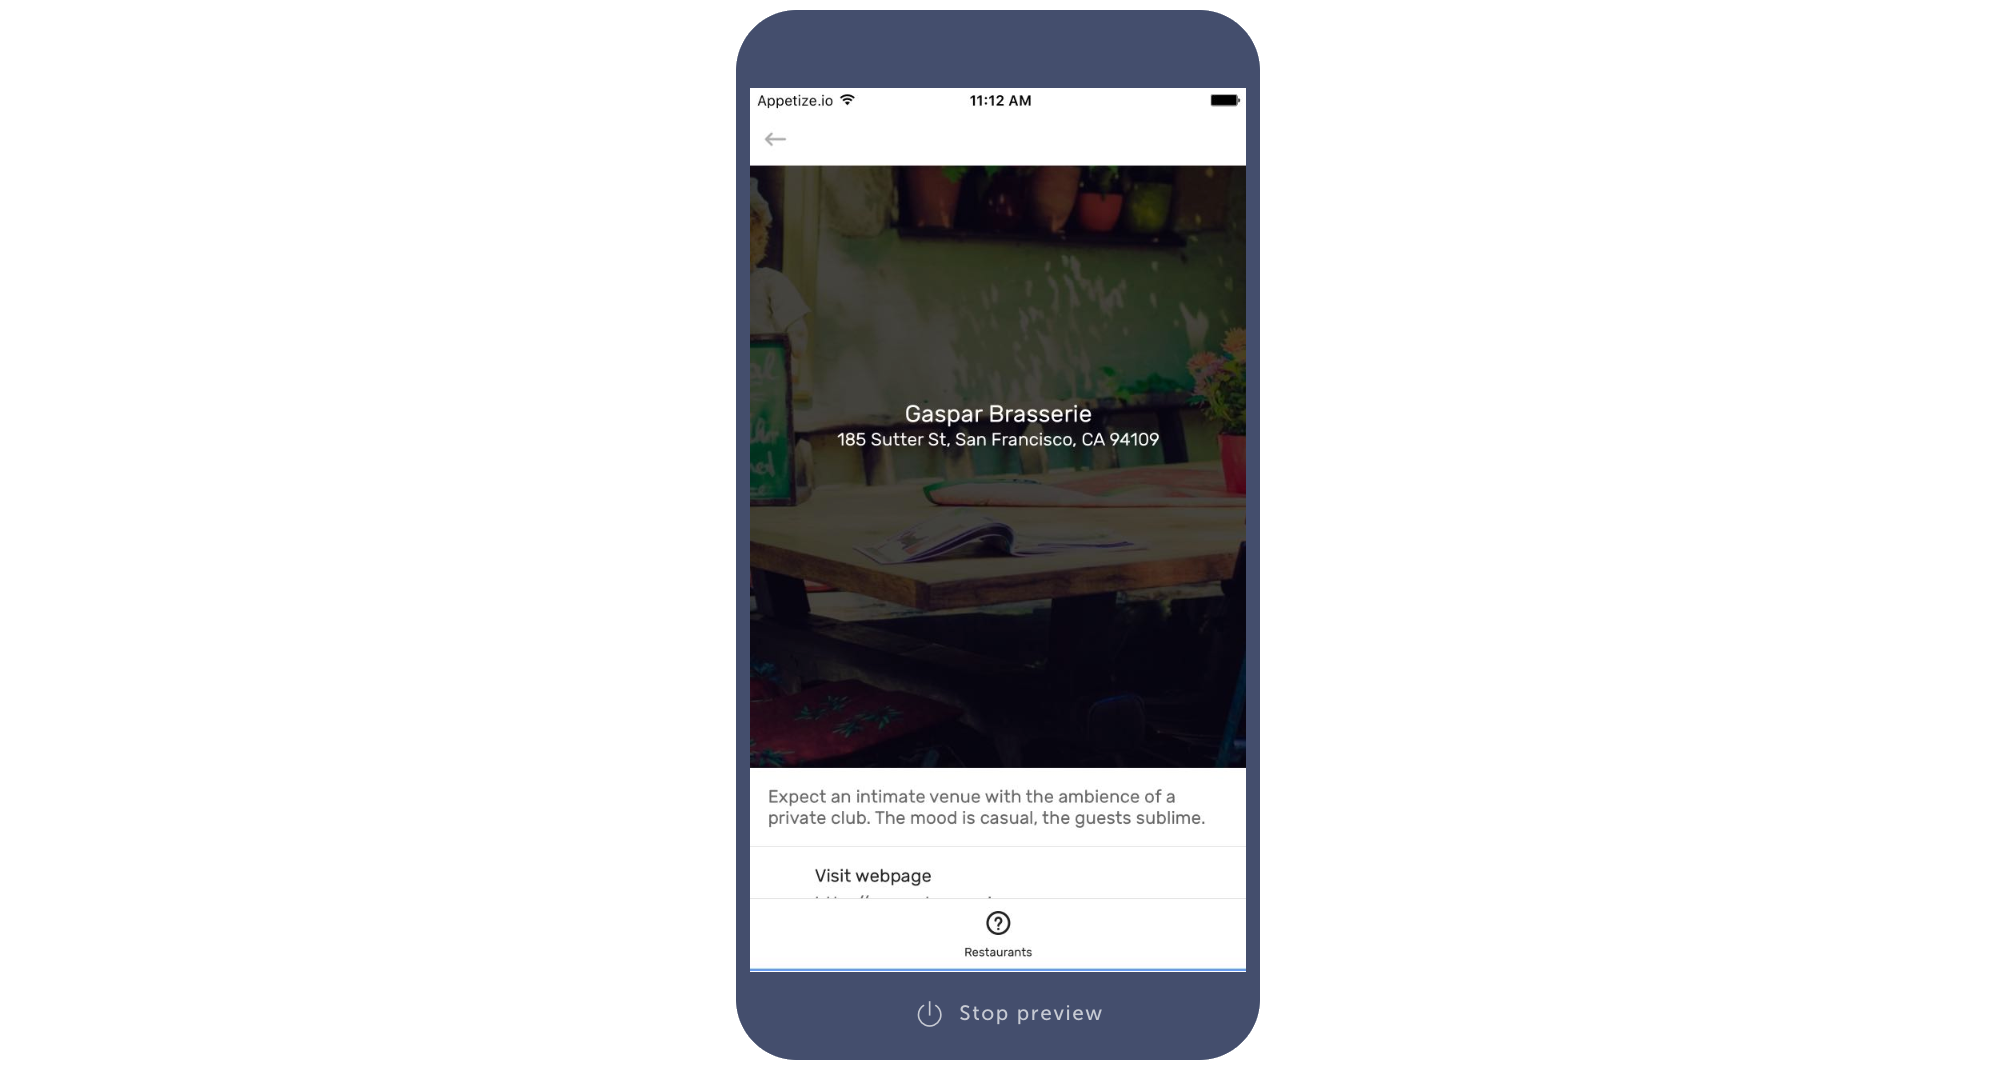
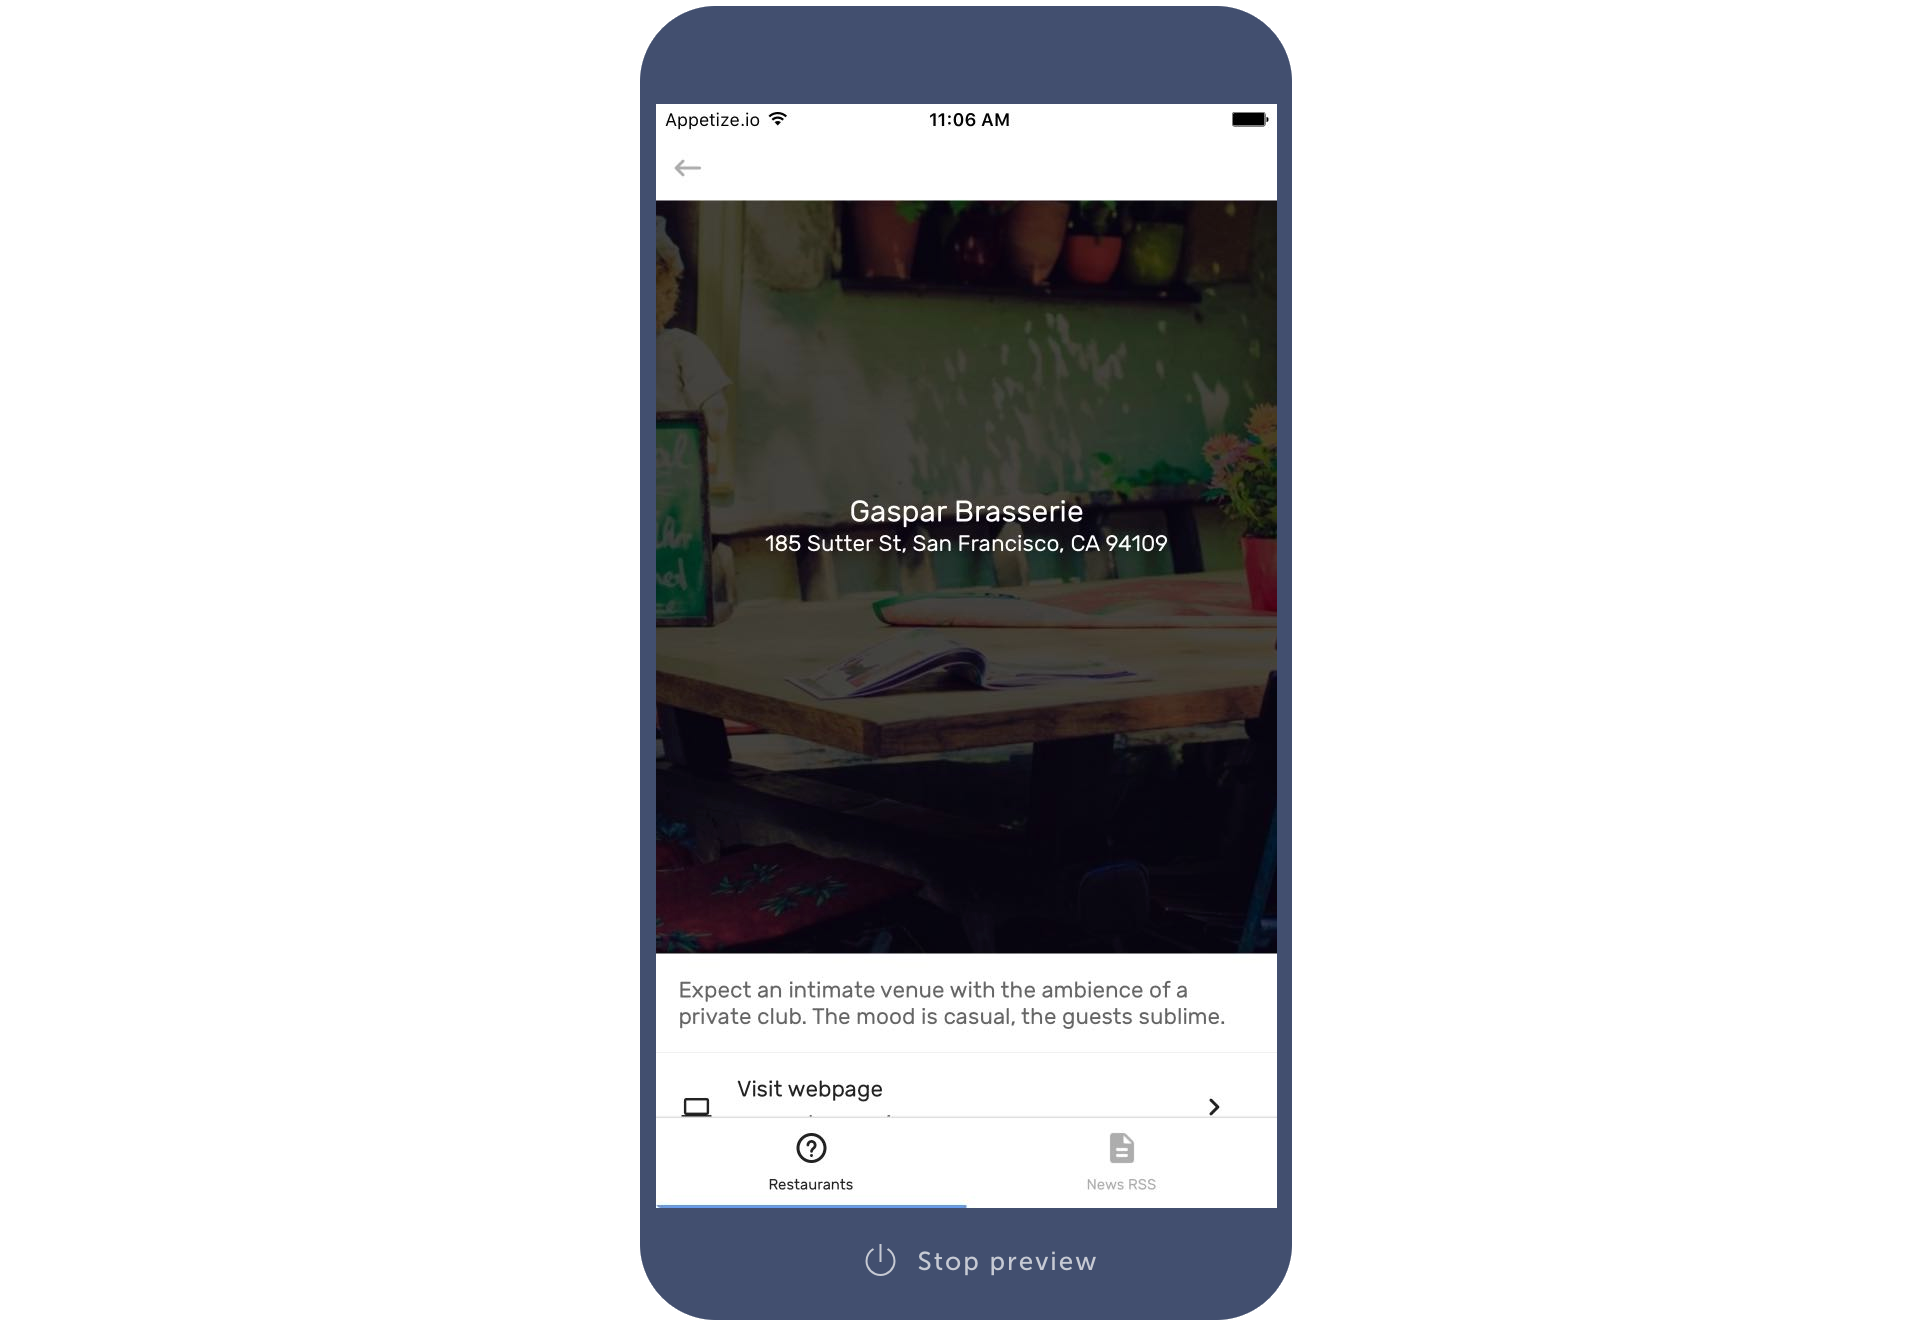
Changes from Demo and updated all relevant screenshots.

Changed region(s): [[0.3106, 0.0, 0.6832, 1.0]]

diff --git a/docs/extensions/tutorials/_posts/1970-01-01-GettingStarted.md b/docs/extensions/tutorials/_posts/1970-01-01-GettingStarted.md
@@ -37,17 +37,15 @@ Before going through this tutorial, make sure you've installed the following:
 > #### Note
 > If the `npm install` commands fail because of _permission_ issues, you need to run them with `sudo`: `sudo npm install -g <package-name>`.
 
-If you haven't already, go to the [Builder]({{ site.shoutem.builderURL }}) and create an account. Once signed in, create a new `Blank app`. For the purpose of this quick tutorial, we'll make a Restaurants and Food based app, lets call it `Restaurants`. To rename your app, click on the `Blank app`, delete the text and type in `Restaurants`.
+If you haven't already, go to the [Builder]({{ site.shoutem.builderURL }}) and create an account. Once signed in, create a new `Blank app`. For this quick tutorial, we'll make a Restaurants and Food app, lets call it `Restaurants`. To rename your app, click on the `Blank app` text, delete it and type in `Restaurants`.
 
-Lets say we want to add an About screen as well as a Video RSS screen that houses a YouTube playlist of short recipe videos. To do that, click on the + button next to Screens and select the About extension then do the same thing and add the Video RSS extension. After adding the screens, you can use Shoutem's CMS to add content to your About screen. Select the About screen in Main Navigation, click on "Create Items" to open the CMS modal. Now click on "Add Item" which will open the "New item" modal. Here you can fill out the form with all the information you might want to display on your About screen. If you don't feel like doing so, you can simply use the CSV import option by clicking on the `...` button and then click Import.
+Lets say we want to add an RSS feed screen to our app. To do that, click on the + button next to Screens and select the News RSS extension. Since the app is about Restaurants, to stick to the Food theme, lets use a food related News RSS feed:
+http://foodengineeringmag.com/rss/topic/2639-top-100-food-beverage-companies
 
-We've prepared a [CSV file]({{ site.url }}/csv/getting-started-about.csv) for you to use for your About extension, and a video RSS feed link for your Video RSS extension:
-`https://www.youtube.com/feeds/videos.xml?playlist_id=PLcpoB2VESJme2qPsS1Mx1dVmTUKh8MhJe`
-
-After you add these screens and content to your app, it should look something like this:
+After you adding this screen, it should look something like this:
 
 <p class="image">
-<img src='{{ site.url }}/img/tutorials/getting-started/about-videos-screens.png'/>
+<img src='{{ site.url }}/img/tutorials/getting-started/01-builder-before-clone.png'/>
 </p>
 
 ## Creating a New Extension
@@ -72,14 +70,16 @@ Clone the app you made in the Builder to your machine by using `shoutem clone` a
 ```ShellSession
 $ shoutem clone
 Select your app: Restaurants ({{ site.example.appId }})
-Cloning `Restaurants` to `Restaurants_{{ site.example.appId}}`
+Cloning `Restaurants` to `Restaurants`
 ...
 ```
 
-Once the cloning process is done, locate to `Restaurants_{{ site.example.appId }}/extensions` and create your new extension using `shoutem init`:
+`shoutem clone` installs the [Shoutem platform](https://github.com/shoutem/platform), all the extensions you have installed on the Builder (as well as their dependencies) and then links everything to the local environment, turning it into a Shoutem flavored React Native app.
+
+Once the cloning process is done, locate to `Restaurants/extensions` (where you can find all the extensions installed into your app) and create your new extension using `shoutem init`:
 
 ```ShellSession
-$ cd Restaurants_{{ site.example.appId }}/extensions
+$ cd Restaurants/extensions
 $ shoutem init restaurants
 Enter information about your extension. Press `return` to accept (default) values.
 Title: Restaurants
@@ -92,15 +92,11 @@ Initializing extension:
 Extension initialized!
 ```
 
-The `shoutem init` command bootstrapped the `{{ site.example.devName }}.restaurants` folder with extension files. Locate to the extension folder:
+The `shoutem init` command bootstrapped the `{{ site.example.devName }}.restaurants` folder with extension files. Lets locate to the extension folder and add a screen with a shortcut (a pointer to the starting screen of an extension):
+
 
 ```ShellSession
 $ cd {{ site.example.devName }}.restaurants
-```
-
-Create a screen with a shortcut (pointer to the starting screen of the extension):
-
-```ShellSession
 $ shoutem screen add List --shortcut Restaurants
 Enter shortcut information:
 Title: Restaurants
@@ -112,7 +108,7 @@ File `app/extension.js` was modified.
 File `extension.json` was modified.
 ```
 
-This created a `List` screen in `app/screens/List.js` file. The reason we named it List is because in the [My First Extension]({{ site.url }}/docs/extensions/my-first-extension/introduction) tutorial series we'll turn this screen into a list of restaurants, but for now, a template screen will suffice. Any time you create a new screen it'll be a simple Hello World screen.
+This created a `List` screen in `app/screens/List.js` file. The reason we named it List is because in the [My First Extension]({{ site.url }}/docs/extensions/my-first-extension/introduction) tutorial series we'll turn this screen into a list of restaurants, but for now, a simpler screen will do. Any time you create a new screen it'll be a simple Hello World screen.
 
 To fit the app, lets change the `app/screens/List.js` file so it says `Lets eat!` instead of `Hello World!`:
 
@@ -129,60 +125,50 @@ export default class List extends Component {
 }
 ```
 
-Let's push what we've built to Shoutem.
+Let's push what we've built to Shoutem with `shoutem push`and install the extension into the Restaurants app using `shoutem install`:
 
 ```ShellSession
 $ shoutem push
+Checking the extension code for syntax errors...
 Uploading `Restaurants` extension to Shoutem...
 Success!
-```
 
-Now install the extension into the app so it's available in the Builder:
-
-```ShellSession
 $ shoutem install
+Select your app: Restaurants ({{ site.example.appId }})
 
 Extension installed.
 See it in the builder: {{ site.shoutem.builderURL }}/app/{{ site.example.appId }}
 ```
 
-Open the app in the Builder. Click on the `+` next to **Screens** and select `Custom` category. You can see your `Restaurants` extension there. Click on it to add it to Main Navigation, just like you did with About and Videos RSS.
+Now we need to add the to the app. Open the app in the Builder. Click on the `+` next to **Screens** and select the `Custom` category. You can see your `Restaurants` extension there. Click on it to add it to Main navigation, just like you did with the News RSS.
 
 <p class="image">
-<img src='{{ site.url }}/img/tutorials/getting-started/adding-custom-extension.png'/>
+<img src='{{ site.url }}/img/tutorials/getting-started/02-builder-custom-extension-screen.png'/>
 </p>
 
 Great! Let's make our newly created extension's screen the Starting Screen for the app. Just drag it to the top of Main Navigation and you're done.
 
-Since we just installed a new extension into our app and added it's Shortcut to Main navigation, we need to synchronize our already cloned app with the Builder. We do that using `shoutem rebuild` in the cloned app directory:
+Since we just installed a new extension into our app and added it's Shortcut to Main navigation, we need to synchronize our already cloned app with the Builder. We do that with `shoutem pull`:
 
 ```ShellSession
-$ cd ../..
-$ shoutem rebuild
+$ shoutem pull
 
-> @shoutem/mobile-app@1.1.0 configure /path/to/Restaurants_{{ site.example.appId }}
-> node scripts/configure
+> @shoutem/mobile-app@1.1.0 configure /path/to/Restaurants
 ...
 ```
 
-After that's done, we can preview the app locally. You can also use the Builder to preview your app, or you can preview it using the **Shoutem Preview** app (available for [iOS]({{ site.shoutem.previewAppiOS }}) and [Android]({{ site.shoutem.previewAppAndroid }})). Using the Shoutem Preview app, you can even preview iOS apps when developing on Windows!
-
-Simply use `shoutem run` inside your cloned `Restaurants_{{ site.example.appId }}` app directory and scan the generated QR code using the Shoutem Preview app (or any other QR code scanner).
+After that's done, we can preview the app locally using `react-native run-ios/android` or using `shoutem run`, which will make the CLI print a QR code for you to scan with the **Shoutem Preview app** (available for [iOS]({{ site.shoutem.previewAppiOS }}) and [Android]({{ site.shoutem.previewAppAndroid }})). Using the Shoutem Preview app, you can even preview iOS apps when developing on Windows!
 
 ```ShellSession
 $ shoutem run
-Scanning folders for symlinks in /path/to/Restaurants_{{ site.example.appId }}/node_modules
+Scanning folders for symlinks in /path/to/Restaurants/node_modules
 ...
 ```
-
-> #### Note
-> To create the bundle for your app, you need to have [Node.js v7](https://nodejs.org/en/) and [react-native-cli](http://npmjs.com/package/react-native-cli) installed. See [FAQ]({{ site.url }}/docs/extensions/tutorials/faq) if you have problems setting this up.
-> Also, make sure you're connected to the same WiFi network on both your computer and smartphone (we'll soon make it possible to do it without being connected to the same WiFi).
 
 Once you scan the generated QR code, this is the result you'll have on your phone:
 
 <p class="image">
-<img src='{{ site.url }}/img/tutorials/getting-started/shoutem-run.png'/>
+<img src='{{ site.url }}/img/tutorials/getting-started/03-lets-eat.png'/>
 </p>
 
 **Well done!** You just built your first app using your own custom built extension!

diff --git a/docs/extensions/my-first-extension/_posts/1970-01-04-CreatingShortcutAndScreen.md b/docs/extensions/my-first-extension/_posts/1970-01-04-CreatingShortcutAndScreen.md
@@ -98,19 +98,18 @@ See it in the builder: {{ site.shoutem.builderURL }}/app/{{ site.example.appId }
 After installing it, we opened the app in the Builder and added the extension's screen to Main navigation. Installing new extensions and adding their shortcuts to the app requires you to rebuild your local clone:
 
 ```ShellSession
-$ cd ../..
-$ shoutem rebuild
+$ shoutem reconfigure
 
 > @shoutem/mobile-app@1.1.0 configure /path/to/Restaurants_{{ site.example.appId }}
 > node scripts/configure
 ...
 ```
 
-Let's preview your app again. We can preview it in the Builder, but it might take some time while Builder bundles the entire app again, because every time you change an extension, we'd have to _push_ it again and then the Builder would need to re-bundle the whole app to add the new extension. It's much faster to use the **Shoutem Preview** app (available for [iOS]({{ site.shoutem.previewAppiOS }}) and [Android]({{ site.shoutem.previewAppAndroid }})) and the Shoutem CLI, which can bundle just the changes made in the extension instead of re-bundling the entire app, like the Builder would.
+Let's preview your app again. We can preview it in the Builder, but it might take some time while Builder bundles the entire app again. Every time you change an extension, you'd have to _push_ it again and then the Builder would need to re-bundle the whole app to add the changes. It's much faster to use the **Shoutem Preview** app (available for [iOS]({{ site.shoutem.previewAppiOS }}) and [Android]({{ site.shoutem.previewAppAndroid }})) and the Shoutem CLI, which can bundle just the changes made in the extension instead of re-bundling the entire app, like the Builder would.
 
-You can also use run your apps on local emulators the same way with regular React Native apps, we have a [tutorial]({{ site.url }}/docs/extensions/tutorials/setting-local-environment) that offers an in-depth explanation on how to develop locally.
+You can also run your apps on local emulators the same way with regular React Native apps, we have a [tutorial]({{ site.url }}/docs/extensions/tutorials/setting-local-environment) that offers an in-depth explanation on all the ways you can develop locally.
 
-In Getting Started, we previewed the app on our own device using `shoutem run`. Lets see how you can make changes to the app code and preview them in real time. Lets start by using `shoutem run` from the cloned app directory:
+In Getting Started, we previewed the app on our own device using `shoutem run`:
 
 ```ShellSession
 $ shoutem run
@@ -118,16 +117,14 @@ Scanning folders for symlinks in /path/to/Restaurants_{{ site.example.appId }}/n
 ...
 ```
 
-The CLI will print a QR code for you to scan using the Shoutem Preview app, if you don't have the app, you can get it using the link printed above the QR code. After it's installed, the Shoutem Preview app will automatically display your app.
+Lets scan the QR code and see where we stopped in Getting Started.
+
+<p class="image">
+<img src='{{ site.url }}/img/tutorials/getting-started/03-lets-eat.png'/>
+</p>
 
 > #### Note
 > In the documentation the preview you see is from the Builder, instead of a screenshot from the Shoutem Preview app. This way you'll see the state of the web interface as well.
-
-This is the result:
-
-<p class="image">
-<img src='{{ site.url }}/img/my-first-extension/extension-hello-world.png'/>
-</p>
 
 Now let's make a quick change to the app code so you can see it change in real time on the Shoutem Preview app. Open your `restaurants` extension's `List.js` screen file and add another line of text:
 
@@ -138,14 +135,14 @@ export default class List extends Component {
     return (
       <View style={styles.container}>
         <Text style={styles.text}>Lets eat!</Text>
-        <Text style={styles.text}>Real time preview changes!</Text>
+        <Text style={styles.text}>Can't do anything on an empty stomach!</Text>
       </View>
     );
   }
 }
 ```
 
-Now just shake your phone with the Shoutem Preview app open and tap the "Reload" button in the dev menu that shows up. Your new line of text should be available immediately:
+Now just shake your phone with the Shoutem Preview app open and tap the "Reload" button in the dev menu that shows up. Your new line of text should be visible immediately:
 
 <p class="image">
 <img src='{{ site.url }}/img/my-first-extension/real-time-preview.png'/>

diff --git a/docs/extensions/my-first-extension/_posts/1970-01-06-UsingCloudStorage.md b/docs/extensions/my-first-extension/_posts/1970-01-06-UsingCloudStorage.md
@@ -162,7 +162,7 @@ Success!
 Go to the [Builder]({{ shoutem.builderURL }}), open your app and select `Restaurants` under `Main navigation` to see the Shoutem CMS page.
 
 <p class="image">
-<img src='{{ site.url }}/img/my-first-extension/empty-admin-page.png'/>
+<img src='{{ site.url }}/img/my-first-extension/empty-cms-page.png'/>
 </p>
 
 Click on `Create Items` to start adding content. This will open a modal that contains the `CMS` interface, where you can manage the content for your extension. Apps that get content from the Shoutem CMS will immediately show new content once you edit or add it.

diff --git a/docs/extensions/my-first-extension/_posts/1970-01-07-WorkingWithData.md b/docs/extensions/my-first-extension/_posts/1970-01-07-WorkingWithData.md
@@ -226,6 +226,9 @@ export default connect(
 )(List);
 ```
 
+>#### Note
+>Make sure you remove the `default` from `export default class List extends Component` and only have `default` in `export default connect`, because there can only be one default export.
+
 Let's check how it works:
 
 ```ShellSession
